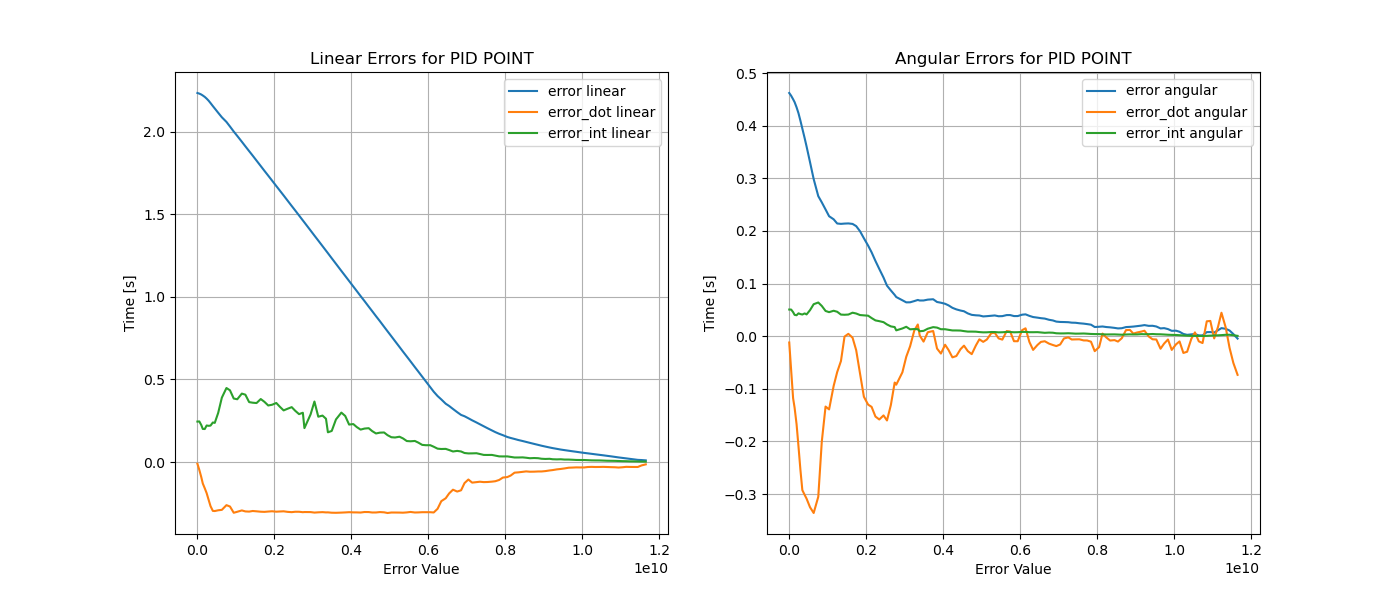
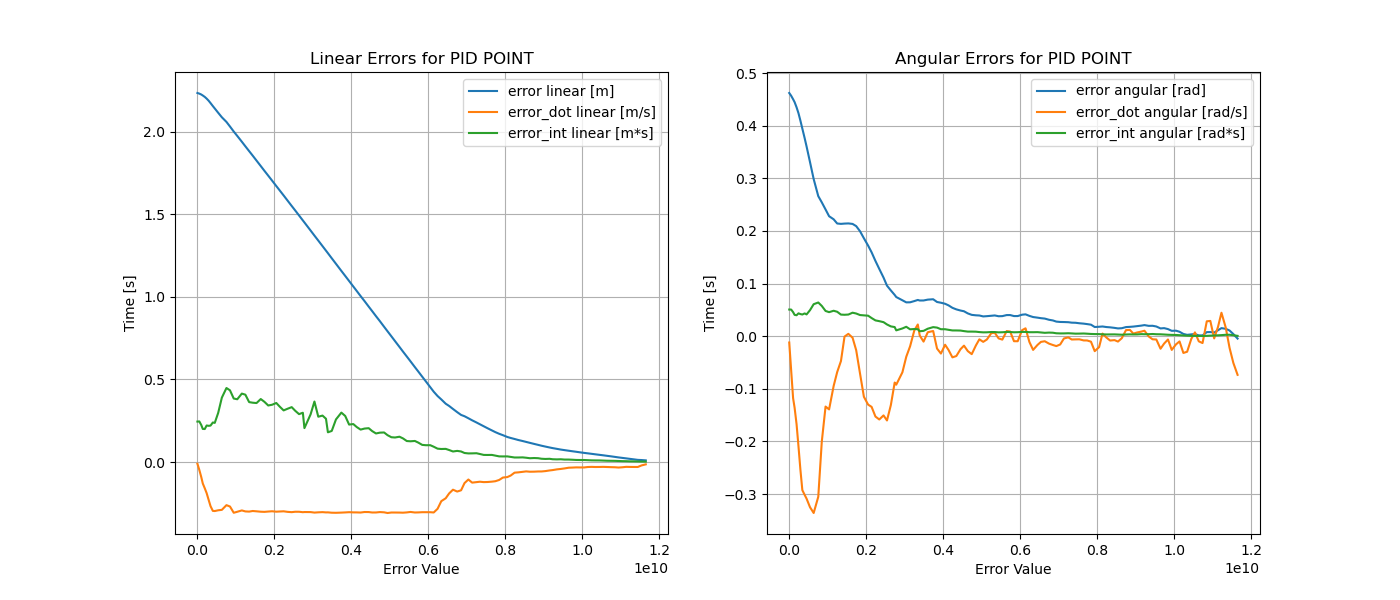
updated plots

Changed region(s): [[0.7371, 0.12, 0.8907, 0.24], [0.3379, 0.12, 0.4914, 0.24]]

diff --git a/plot_errors.py b/plot_errors.py
@@ -66,8 +66,11 @@ def plot_linear_angular_errors(linear_filename, angular_filename, control_type, 
     fig, axes = plt.subplots(1,2, figsize=(14,6))
     
     axes[0].set_title(f"Linear Errors for {control_type} {trajectory}")
-    for i in range(0, len(headers) - 1):
-        axes[0].plot(time_list, [lin[i] for lin in values], label= headers[i]+ " linear")
+    # for i in range(0, len(headers) - 1):
+    #     axes[0].plot(time_list, [lin[i] for lin in values], label= headers[i]+ " linear")
+    axes[0].plot(time_list, [lin[0] for lin in values], label= headers[0]+ " linear [m]")
+    axes[0].plot(time_list, [lin[1] for lin in values], label= headers[1]+ " linear [m/s]")
+    axes[0].plot(time_list, [lin[2] for lin in values], label= headers[2]+ " linear [m*s]")
 
     axes[0].legend()
     axes[0].grid()
@@ -84,8 +87,11 @@ def plot_linear_angular_errors(linear_filename, angular_filename, control_type, 
         time_list.append(val[-1] - first_stamp)
     
     axes[1].set_title(f"Angular Errors for {control_type} {trajectory}")
-    for i in range(0, len(headers) - 1):
-        axes[1].plot(time_list, [lin[i] for lin in values], label= headers[i]+ " angular")
+    # for i in range(0, len(headers) - 1):
+    #     axes[0].plot(time_list, [lin[i] for lin in values], label= headers[i]+ " angular")
+    axes[1].plot(time_list, [lin[0] for lin in values], label= headers[0]+ " angular [rad]")
+    axes[1].plot(time_list, [lin[1] for lin in values], label= headers[1]+ " angular [rad/s]")
+    axes[1].plot(time_list, [lin[2] for lin in values], label= headers[2]+ " angular [rad*s]")
 
     axes[1].legend()
     axes[1].grid()
@@ -114,11 +120,15 @@ def plot(control_type: str, trajectory: str):
     axes[0].grid()
     axes[0].set_xlabel("x [m]")
     axes[0].set_ylabel("y [m]")
+    axes[0].legend()
 
     
     axes[1].set_title(f"States of x, y, theta for {control_type} {trajectory}")
-    for i in range(0, len(headers) - 1):
-        axes[1].plot(time_list, [lin[i] for lin in values], label= headers[i])
+    # for i in range(0, len(headers) - 1):
+    #     axes[1].plot(time_list, [lin[i] for lin in values], label= headers[i])
+    axes[1].plot(time_list, [lin[0] for lin in values], label= headers[0] + " [m]")
+    axes[1].plot(time_list, [lin[1] for lin in values], label= headers[1] + " [m]")
+    axes[1].plot(time_list, [lin[2] for lin in values], label= headers[2] + " [rad]")
     
 
     axes[1].legend()
